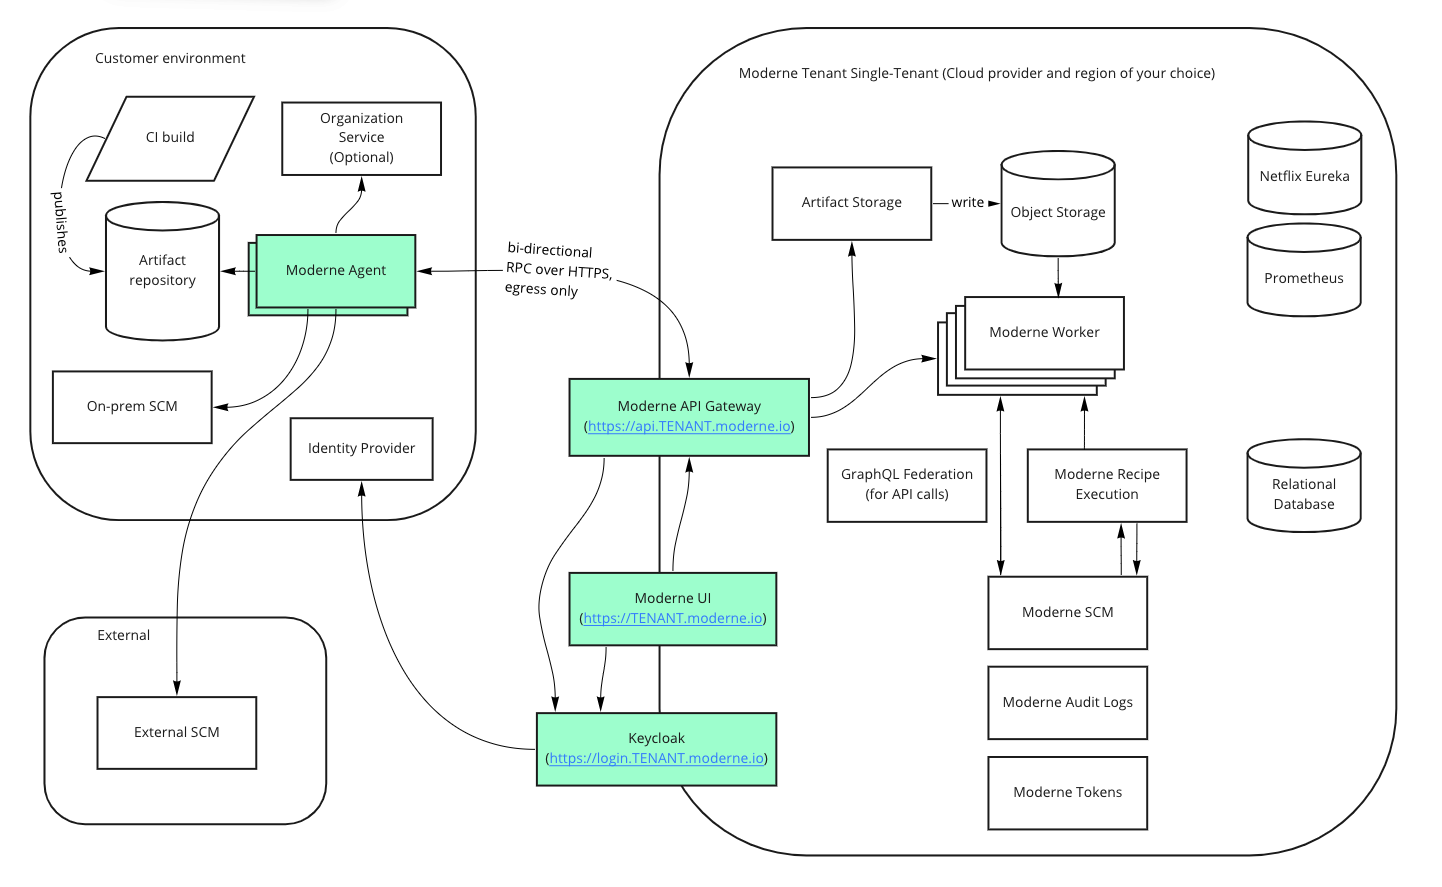
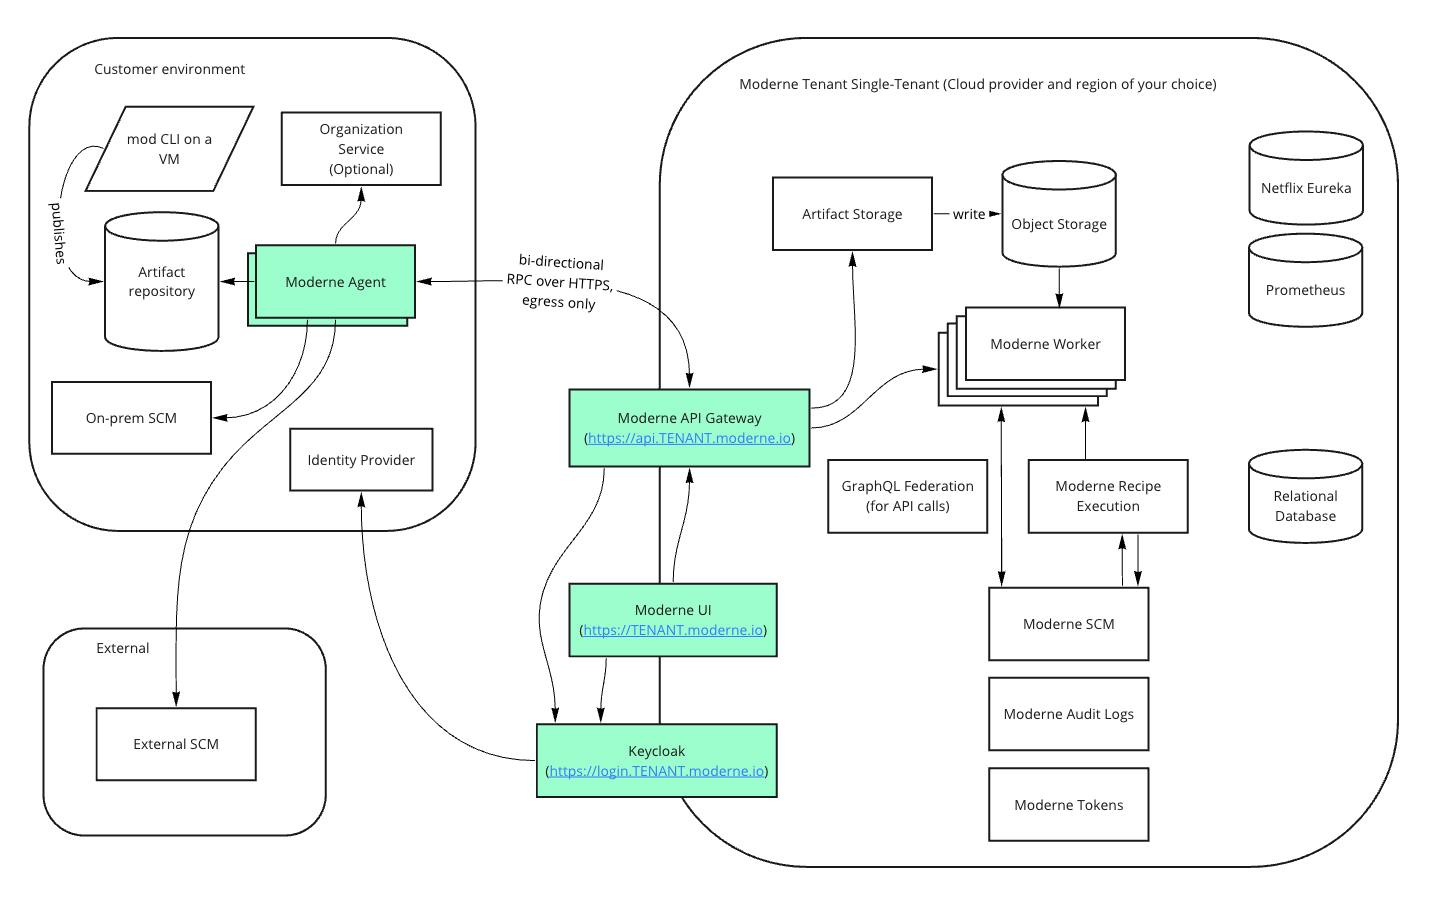
Remove all references to CI/mod-connect

diff --git a/administrator-documentation/references/concepts/lossless-semantic-trees.md b/administrator-documentation/references/concepts/lossless-semantic-trees.md
@@ -43,14 +43,14 @@ If you want to see specific examples of Java LSTs, please read our [Java LST Exa
 
 ### With the Moderne Platform
 
-1. Before you can run a recipe against a repository in the Moderne Platform, you must build the LST for said repository. This is typically done via a CI job (usually configured by the [mod connect tool](https://github.com/moderneinc/mod-connect)). This CI job builds LST artifacts for each repository you want ingested and then publishes the LST artifacts to your artifact repository. You can configure how often this runs, but most people run these jobs once per day as it can be prohibitively expensive to continuously build large projects over and over.
+1. Before you can run a recipe against a repository in the Moderne Platform, you must build the LST for said repository. This is done by [running Moderne CLI commands in a VM](/administrator-documentation/how-to-guides/integrating-private-code.md).
 2. When you go to run a recipe, the LST artifact will be downloaded from your artifact repository. These LSTs are continuously uploaded/updated over time as long as you've set up ingestion for your repositories.
 3. As the recipe runs, it will make transformations on the downloaded LST. This could be as simple as adding a search marker (`~~>`) if the recipe is a search recipe -- or it could be as complex as adding classes and methods throughout the repository.
 4. Once the recipe has finished running, the **modified LST will be discarded** and the code **will not** be changed. Instead, you will be [provided with a list of the changes it would make](../../../user-documentation/getting-started/running-your-first-recipe.md#step-6-run-the-recipe). You can [review them](../../../user-documentation/getting-started/running-your-first-recipe.md#step-7-view-the-results) and [choose what to do with them](../../../user-documentation/getting-started/running-your-first-recipe.md#step-8-commit-your-changes).
 5. Regardless of what you choose to do with the results, future recipe runs **will not** have those changes unless you commit them and have the CI job re-build/publish the LST to your artifact repository.
 
 {% hint style="info" %}
-You might be wondering, "Hey - if LSTs are ingested only once a day, wouldn't that mean they're out-of-date if we run multiple recipes against them?" While that _can_ be true, in most situations, it's not an issue as Moderne rebases recipe results when committing and recipes rarely conflict in such an extreme way.
+You might be wondering, "Hey - if LSTs are ingested only once I publish them via the CLI, wouldn't that mean they're out-of-date if we run multiple recipes against them?" While that _can_ be true, in most situations, it's not an issue as Moderne rebases recipe results when committing and recipes rarely conflict in such an extreme way.
 
 Some users may be tempted to combine a bunch of recipes into one giant recipe so that it guarantees that there are no conflicts. However, this can be problematic as it makes the recipe results much more difficult to review and it can lead to performance issues or timeouts.
 

diff --git a/administrator-documentation/references/architecture/architecture.md b/administrator-documentation/references/architecture/architecture.md
@@ -24,18 +24,13 @@ Below is a high-level architecture diagram that shows the flow of data between M
 
 ## Key components
 
-### Customer CI
+### Moderne CLI on a VM
 
 In order for Moderne to know the current state of your code, artifacts will need to be generated that contain a serialized representation of your code's [LSTs](../concepts/lossless-semantic-trees.md). These artifacts must be put inside an artifact repository that the [Moderne agent](architecture.md#moderne-agent) has access to.
 
-There are two main ways to generate artifacts. You can:
+For instructions on how to use the Moderne CLI to build and publish artifacts, please read our [integrating private code with Moderne doc](/administrator-documentation/how-to-guides/integrating-private-code.md).
 
-1. (**Recommended**) Set up a [GitHub or Jenkins pipeline](../../how-to-guides/integrating-private-code.md#mod-connect) to build and publish LST artifacts on a daily basis without requiring code changes to your existing repositories/pipelines.
-2. Update all of your existing pipelines to run the [mod publish](../../how-to-guides/integrating-private-code.md#mod-publish) command whenever the code is updated.
-
-Both of these are described in detail in our [integrating private code with Moderne doc](../../how-to-guides/integrating-private-code.md).
-
-Regardless of which option you choose, the LST artifacts will be published to your existing artifact repository alongside binary, source, and JavaDoc artifacts that are already created by your team's normal publishing mechanisms. Since the LST artifacts are added to your existing artifact repository, _no additional credentials are needed_.
+The LST artifacts will be published to your existing artifact repository alongside binary, source, and JavaDoc artifacts that are already created by your team's normal publishing mechanisms. Since the LST artifacts are added to your existing artifact repository, _no additional credentials are needed_.
 
 ### Moderne agent
 
